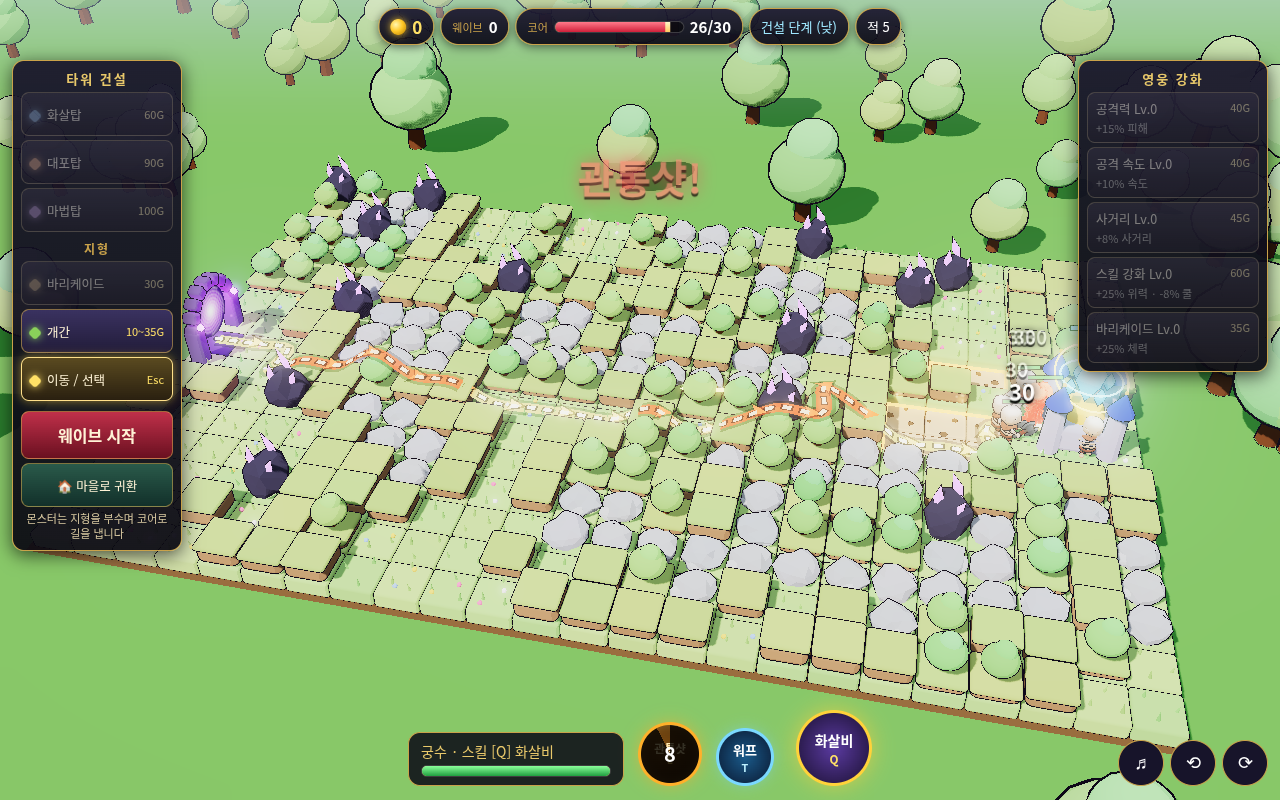
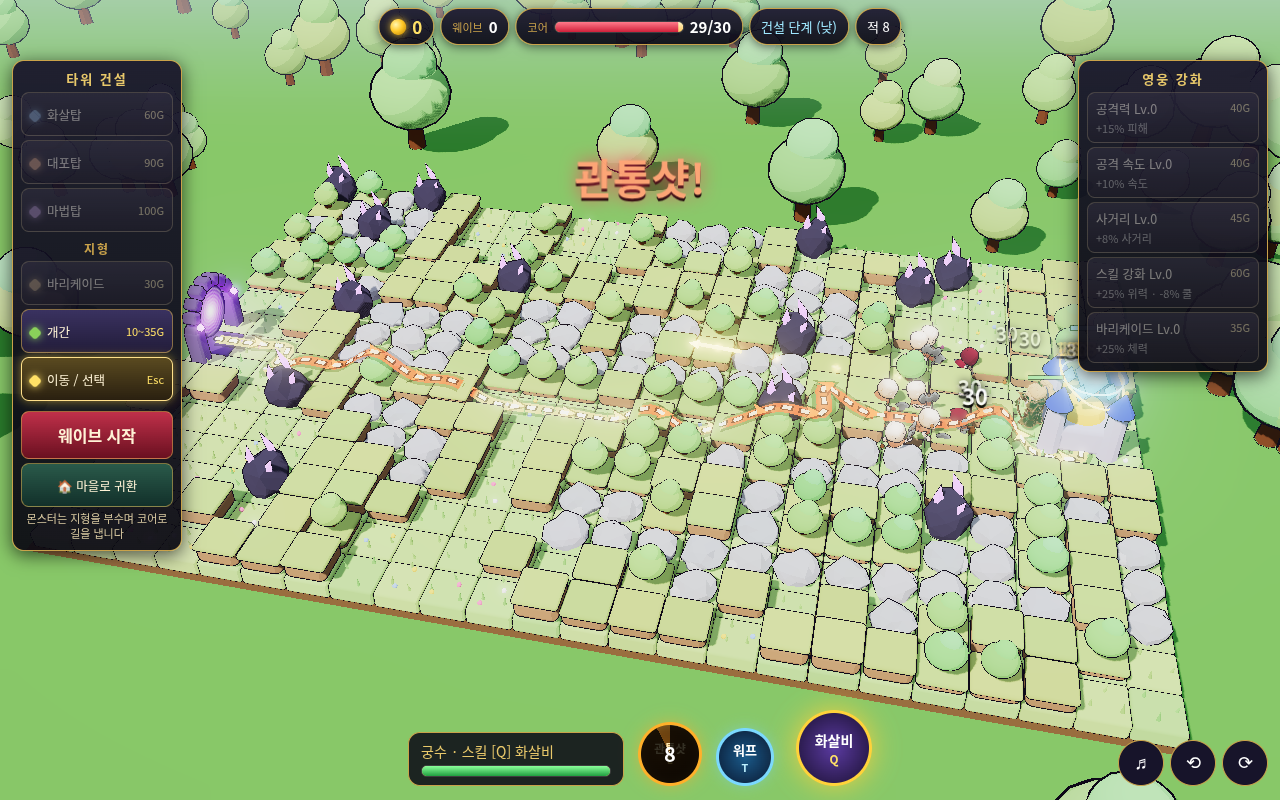
전설 고유 스킬 4/n: 프로즌 오브 폭발 위치(대상 뒤)·빙결 사망 처리, legend.py 시드/피해 측정 수정, 스크린샷 갱신

diff --git a/src/heroes/legend.js b/src/heroes/legend.js
@@ -10,7 +10,7 @@ import { glow } from '../render/toon.js';
 import { P, PB, debris, emit, ringFx } from '../render/vfx.js';
 import { play } from '../render/characters.js';
 import { makeArrow } from '../combat/projectiles.js';
-import { hurt } from '../monsters/enemy.js';
+import { hurt as hurt0 } from '../monsters/enemy.js';
 import { groundY } from '../monsters/ai.js';
 import { LSK } from '../account/equip.js';
 import { banner } from '../ui/hud.js';
@@ -20,6 +20,7 @@ import { hero, heroTip, passAt, stat } from './hero.js';
 const lr = mulberry32(((+QS.get('rng') || (Math.random() * 1e9 | 0)) ^ 0x1e9e7d) >>> 0);
 let lrNext = lr; const LR = () => lrNext(); G.legendSeed = s => { lrNext = mulberry32(s >>> 0); }; // 테스트: 발동 난수 고정
 const FX = G.lfx = []; G.legendN = {}; // 발동 횟수 (테스트용)
+G.legendDmg = 0; const hurt = (e, d, ...a) => { if (!e.dead) G.legendDmg += d; hurt0(e, d, ...a); }; // 고유 스킬 피해 합계 (테스트용)
 const count = k => G.legendN[k] = (G.legendN[k] || 0) + 1;
 let lastPT = 'mouse'; addEventListener('pointerdown', e => { lastPT = e.pointerType; }, true);
 const ADD = c => new THREE.MeshBasicMaterial({ color: c, transparent: true, opacity: .9, blending: THREE.AdditiveBlending, depthWrite: false, side: THREE.DoubleSide, toneMapped: false });
@@ -65,14 +66,14 @@ function frostorb(t, s) {
   aura.material.opacity = .16; const ring = new THREE.Mesh(new THREE.RingGeometry(2, 2.25, 40), ADD(0x9ae8ff)); ring.rotation.x = -Math.PI / 2; ring.position.y = -1.1; ring.material.opacity = .6;
   g.add(core, aura, ring); g.position.set(from.x, 1.4, from.z); scene.add(g);
   Snd.play('magic', { pos: from, rate: 1.7, force: true }); Snd.play('glass', { pos: from, rate: 1.5, vol: .5 }); emit(P, from.x, from.y, from.z, 30, 0x9ae8ff, 5, .5, 0, 1);
-  let life = 3, tick = 0;
+  let life = Math.max(1.2, Math.min(3, (Math.hypot(t.g.position.x - from.x, t.g.position.z - from.z) + 1.5) / 3.6)), tick = 0; // 대상 뒤쪽에서 폭발
   FX.push(dt => { life -= dt; tick -= dt; g.position.addScaledVector(dir, 3.6 * dt); core.rotation.x += dt * 3; core.rotation.y += dt * 4; aura.scale.setScalar(1 + Math.sin(G.t * 9) * .06); ring.rotation.z += dt * 2;
     g.position.y = 1.4 + Math.sin(G.t * 5) * .15; if (Math.random() < .9) { const a = Math.random() * 6.28; emit(P, g.position.x + Math.cos(a) * 1.6, g.position.y - .6, g.position.z + Math.sin(a) * 1.6, 1, 0xcaf6ff, .8, .6, -1, .2); }
     if (tick <= 0) { tick = .3; for (const e of alive()) if (d2(e, g.position.x, g.position.z) < 2.2 * 2.2) { e.slowT = Math.max(e.slowT, .6); e.slowAmt = Math.max(e.slowT > .6 ? e.slowAmt || 0 : 0, .5); hurt(e, base * s.mul, '#aee8ff'); } }
     if (life > 0) return true;
     scene.remove(g); const p = g.position; ringFx(p, 3.4, 0xbaf4ff, .5); ringFx(p, 2.2, 0xffffff, .3); emit(P, p.x, p.y, p.z, 90, 0xbaf4ff, 9, .8, -6, 2); emit(PB, p.x, p.y, p.z, 14, 0x7ad8ff, 3, .6, 0, 1.5); debris(p.x, p.y, p.z, 10, [0xdaf6ff, 0x9ae0ff], 6);
     Snd.play('glass', { pos: p, force: true }); Snd.play('zap', { pos: p, rate: .7 });
-    for (const e of alive()) if (d2(e, p.x, p.z) < 9) { hurt(e, base * 1.2, '#dff8ff', true); e.stunT = e.E.boss ? .4 : 1.1; e.frozen = true; }
+    for (const e of alive()) if (d2(e, p.x, p.z) < 9) { hurt(e, base * 1.2, '#dff8ff', true); if (e.dead) continue; e.stunT = e.E.boss ? .4 : 1.1; e.frozen = true; }
     return false; });
 }
 // 회선대검: 회전하며 날아갔다 돌아오는 대검

diff --git a/tests/legend.py b/tests/legend.py
@@ -22,6 +22,7 @@ PACK = """([n, d]) => { const h=G.hero.g.position, a0=G.hero.face; for (let i=0;
   const x=h.x+Math.sin(a)*r, z=h.z+Math.cos(a)*r; e.g.position.set(x,0,z); e.tile=G.toTileXZ?G.toTileXZ(x,z):e.tile; e.state='walk'; e.spawnT=0; e.next=null; } return G.enemies.length; }"""
 def aimAt(pg):  # 영웅이 적을 바라보게 하고 마우스를 적 무리 중심으로
     return J(pg, "()=>{ const L=G.enemies.filter(e=>!e.dead); if(!L.length) return null; let x=0,z=0; for(const e of L){x+=e.g.position.x;z+=e.g.position.z;} x/=L.length; z/=L.length; G.mouseGround.set(x,0,z); const h=G.hero.g.position; G.hero.face=Math.atan2(x-h.x,z-h.z); return [x,z]; }")
+DIAG = "()=>{const h=G.hero,L=G.enemies.filter(e=>!e.dead);return {ph:G.phase,dead:h.dead,atkT:h.atkT,lsk:h.lsk,licd:h.licd,n:L.length,d:Math.min(...L.map(e=>e.g.position.distanceTo(h.g.position))),st:L.map(e=>e.state).join()}}"
 def hpSum(pg): return J(pg, "()=>G.enemies.reduce((a,e)=>a+(e.dead?e.max:e.max-e.hp),0)")
 
 with sync_playwright() as pw:
@@ -61,17 +62,17 @@ with sync_playwright() as pw:
         # 출정 (도전 모드)
         pg.click('#twGo'); pg.wait_for_timeout(300); pg.click('.chtab[data-c="0"]'); pg.click('#stChalGo'); pg.wait_for_function("()=>G.phase==='build'&&G.hero", timeout=60000); pg.wait_for_timeout(500)
         ok(f'{hero}_hero_has_proc', J(pg, "()=>G.hero.lsk") == proc and hidden(pg, 'legBtn'))
-        J(pg, "()=>{ G.manual=true; G.toTileXZ=(x,z)=>G.toTile(x,z); G.gold=0; G.legendSeed(4242); G.legendN={}; G.hero.C.armor=1; }")
-        J(pg, PACK, [9, 5]); aimAt(pg); h0 = hpSum(pg)
+        J(pg, "()=>{ G.manual=true; G.toTileXZ=(x,z)=>G.toTile(x,z); G.gold=0; G.legendSeed(7); G.legendN={}; G.legendDmg=0; G.hero.C.armor=1; }")
+        J(pg, PACK, [9, 5]); J(pg, "()=>G.enemies.forEach(e=>{ if(!e.dead){ e.max=e.hp=1e6; } })"); aimAt(pg); h0 = hpSum(pg)
         # proc: 시드 난수로 자연 발동 (강제 없음)
         n = 0
-        for i in range(60):
+        for i in range(120):
             J(pg, "()=>G.sim(.25)"); n = J(pg, f"()=>G.legendN['{proc}']||0")
             if n: break
-        ok(f'{hero}_proc_seeded', n >= 1, f'after {(i+1)*.25:.2f}s')
+        ok(f'{hero}_proc_seeded', n >= 1, f'after {(i+1)*.25:.2f}s' + ('' if n else ' ' + str(J(pg, DIAG))))
         for _ in range(3): J(pg, "()=>G.sim(.1)")
         shot(pg, f'{proc}')
-        J(pg, "()=>G.sim(1.5)"); ok(f'{hero}_proc_damage', hpSum(pg) > h0)
+        J(pg, "()=>G.sim(1.5)"); ok(f'{hero}_proc_damage', J(pg, "()=>G.legendDmg") > 0, J(pg, "()=>[G.legendDmg, G.lfx.length, G.hero.face, G.hero.g.position.toArray(), G.enemies.filter(e=>!e.dead).map(e=>[e.g.position.x|0,e.g.position.z|0,e.E.fly?1:0])]"))
         # 결정성: 같은 시드 → 같은 발동 순서 (난수 함수 직접 비교)
         # active: 무기를 바꿔 다시 출정한 것과 같은 상태로
         J(pg, f"()=>{{ G.hero.lsk='{act}'; G.hero.lcd=0; G.legendN={{}}; G.sim(.2); }}")
@@ -104,7 +105,7 @@ with sync_playwright() as pw:
         if hero == 'mage':
             J(pg, "()=>{ G.hero.lsk='frostorb'; G.legendForce=true; G.hero.licd=0; }")
             if J(pg, "()=>G.enemies.filter(e=>!e.dead).length") < 5: J(pg, PACK, [9, 5])
-            aimAt(pg)
+            J(pg, "()=>G.enemies.forEach(e=>{ if(!e.dead){ e.max=e.hp=1e6; } })"); aimAt(pg)
             for _ in range(30):
                 J(pg, "()=>G.sim(.2)")
                 if J(pg, "()=>G.enemies.some(e=>!e.dead&&e.frozen)"): break
